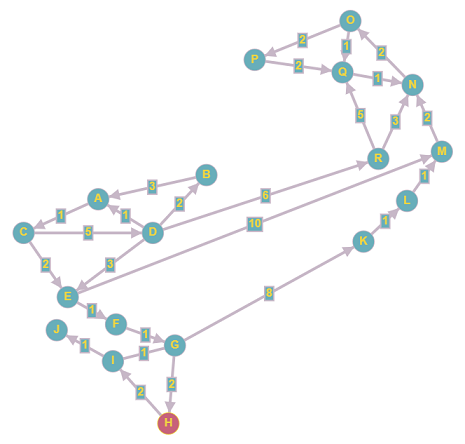
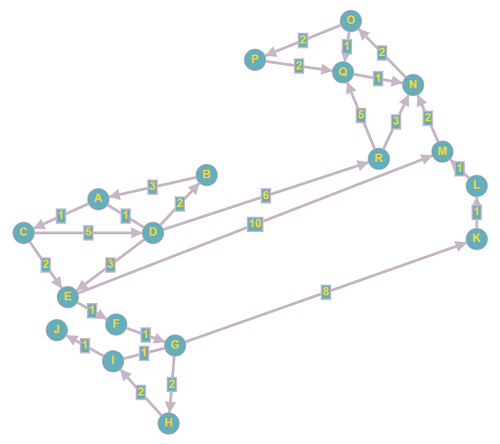
jotain tein, mutta mitä, sitä muista en

Changed region(s): [[0.0301, 0.0, 0.9935, 0.9955]]

diff --git a/src/ui/UI.js b/src/ui/UI.js
@@ -1,14 +1,18 @@
 import React, { useEffect } from 'react'
 import graph from '../routes/model'
-import { InputLabel, Select, FormControl } from '@material-ui/core'
+import { InputLabel, Select, FormControl, Paper, Typography } from '@material-ui/core'
 import data from '../data/data.json'
 
 const styles = {
     display: 'flex',
     flexDirection: 'column',
-    justifyContent: 'flex-start',
-    marginTop: '2%',
-
+    alignItems: 'center',
+    background: '545454',
+    padding: '20px',
+    height: '405px',
+    width: '250px',
+    marginRight: '50px',
+    color: 'black'
 }
 
 const UI = ({ setData }) => {
@@ -18,17 +22,28 @@ const UI = ({ setData }) => {
         stop: '',
     });
 
+    const [distance, setDistance] = React.useState()
+    const [path, setPath] = React.useState()
 
+    let distanceRef = React.useRef()
 
     useEffect(() => {
         if (state.start && state.stop) {
-            
-            const distance = graph.shortestPath(state.start, state.stop)
-            console.log(distance)
-            setData(distance)
-            setState({ start: '', stop: ''})
+            const data = graph.shortestPath(state.start, state.stop)
+            console.log(data, 'piip', data.distance === Infinity)
+            setDistance(data.distance)
+            setPath(data.pathWithColor)
+            setData(data)
+            setState({ start: '', stop: '' })
+            console.log(distanceRef.current)
         }
     }, [state.start, state.stop, setData])
+
+    useEffect(() => {
+        if (!state.start && !state.end)
+            distanceRef.current.blur()
+
+    }, [state.start, state.end])
 
     const handleChange = (event) => {
 
@@ -41,8 +56,8 @@ const UI = ({ setData }) => {
 
 
     return (
-        <div style={styles}>
-            
+        <Paper style={styles} elevation={8}>
+            <h2>Valitse reitti</h2>
             <FormControl >
                 <InputLabel htmlFor="age-native-simple">Lähtöpysäkki</InputLabel>
                 <Select
@@ -62,11 +77,12 @@ const UI = ({ setData }) => {
 
                 </Select>
             </FormControl>
-            <FormControl >
+            <FormControl  >
                 <InputLabel htmlFor="päätepysäkki">Päätepysäkki</InputLabel>
                 <Select
                     native
                     value={state.stop}
+                    inputRef={distanceRef}
                     onChange={handleChange}
                     style={{ width: '200px' }}
                     inputProps={{
@@ -80,7 +96,21 @@ const UI = ({ setData }) => {
                     ))}
                 </Select>
             </FormControl>
-        </div>
+            <div style={{ marginTop: '30px' }}>
+                {distance && distance !== Infinity && (
+                    <div>
+                        <Typography>Reitti: {path[0].vertex} - {path[path.length - 1].vertex}</Typography>
+                        <Typography>Lyhin matka: {distance}</Typography>
+                    </div>
+                )
+                }
+                {
+                    distance === Infinity && (
+                        <Typography style={{ color: 'red'}}>Linjat eivät valitettavasti vie sinua perille</Typography>
+                    )
+                }
+            </div>
+        </Paper>
     )
 }
 

diff --git a/src/canvas/data.js b/src/canvas/data.js
@@ -1,6 +1,9 @@
 
+
+// koordinaattikerroin alkuperäisestä kuvakoosta poikkeaville kuville
 const RELATIVE_SIZE = 0.7
 
+// täysikokoisen kuvan pysäkkien koordinaatit
 const canvasData = {
     'AC':
     {
@@ -24,8 +27,8 @@ const canvasData = {
         end: [156, 281]
     },
     'DE': {
-        start: [206, 309],
-        end: [109, 382]
+        start: [206, 341],
+        end: [109, 413]
     },
     'EF': {
         start: [110, 431],
@@ -36,8 +39,8 @@ const canvasData = {
         end: [234, 488]
     },
     'GH': {
-        start: [246, 507],
-        end: [241, 587]
+        start: [248, 508],
+        end: [242, 588]
     },
     'HI': {
         start: [230, 592],
@@ -80,20 +83,20 @@ const canvasData = {
         end: [573, 118]
     },
     'EM': {
-        start: [110, 418],
+        start: [112, 417],
         end: [616, 222]
     },
     'GK': {
         start: [263, 485],
-        end: [504, 352]
+        end: [665, 347]
     },
     'KL': {
-        start: [530, 333],
-        end: [569, 298]
+        start: [680, 324],
+        end: [679, 280]
     },
     'LM': {
-        start: [590, 273],
-        end: [622, 230]
+        start: [668, 253],
+        end: [642, 227]
     },
     'MN': {
         start: [624, 202],
@@ -102,12 +105,10 @@ const canvasData = {
 }
 
 for (const key in canvasData) {
-    
     canvasData[key].start[0] *= RELATIVE_SIZE
     canvasData[key].start[1] *= RELATIVE_SIZE
     canvasData[key].end[0] *= RELATIVE_SIZE
     canvasData[key].end[1] *= RELATIVE_SIZE
-
 }
 
 export default canvasData

diff --git a/src/canvas/Canvas.js b/src/canvas/Canvas.js
@@ -16,7 +16,7 @@ class Canvas extends React.Component {
         const ctx = canvas.getContext("2d")
         const img = new Image()
         this.imageRef.current = img
-        img.src = './assets/images/kartta070.png'
+        img.src = './assets/images/kartta070musta.png'
 
         img.onload = () => {
             ctx.drawImage(img, 0, 0)
@@ -28,19 +28,14 @@ class Canvas extends React.Component {
         const canvas = this.canvasRef.current
         const ctx = canvas.getContext("2d")
 
-        console.log('fuck')
-
         ctx.drawImage(this.imageRef.current, 0, 0)
         for (let i = 0; i < path.length - 1; i++) {
             setTimeout(() => this.drawLine(ctx, path[i].vertex, path[i + 1].vertex, path[i].color), (i + 1) * 500)
         }
-
     }
 
     componentDidUpdate(prevProps, prevState) {
-        console.log('animoidaan', this.props.path)
         this.animate()
-
     }
 
     drawLine = (ctx, v1, v2, color) => {
@@ -71,9 +66,8 @@ class Canvas extends React.Component {
 
     render() {
         return (
-            <div style={{ overflow: 'hidden' }}>
-                <canvas ref={this.canvasRef} width={664} height={633} />
-
+            <div style={{ overflow: 'hidden', borderRadius: '4px', height: '445px' }}>
+                <canvas ref={this.canvasRef} width={500} height={450} />
             </div>
         )
     }

diff --git a/src/App.js b/src/App.js
@@ -1,24 +1,49 @@
 import React from 'react';
 import Canvas from './canvas/Canvas'
 import UI from './ui/UI'
-
-
+import { Paper } from '@material-ui/core'
 
 const styles = {
-  display: 'flex',
-  flexDirection: 'row',
-  justifyContent: 'space-around'
+  root: {
+    height: '100vh',
+    display: 'flex',
+    flexDirection: 'column',
+    justifyContent: 'center',
+    alignItems: 'center',
+    overflow: 'hidden',
+    background: 'black'
+  },
+
+  header: {
+    color: '#999',
+    fontSize: '2.5em',
+    letterSpacing: '0.1em',
+    fontFamily: 'Bigelow Rules, cursive'
+  },
+
+  content: {
+    display: 'flex',
+    flexDirection: 'row',
+    justifyContent: 'center',
+    padding: '30px',
+    width: '80vw',
+
+    background: 'radial-gradient(circle, rgba(69,69,71,1) 0%, rgba(3,5,13,1) 91%, rgba(0,0,0,1) 100%)'
+
+  }
 }
 
 function App() {
   const [data, setData] = React.useState({})
 
-  
+
   return (
-    <div style={styles}>
-      {console.log(data, 'data')}
-      <UI setData={setData} />
-      <Canvas path={data.pathWithColor} />
+    <div style={styles.root}>
+      <h1 style={styles.header}>Köyhän miehen reittiopas</h1>
+      <Paper elevation={4} style={styles.content}>
+        <UI setData={setData} />
+        <Canvas path={data.pathWithColor} />
+      </Paper>
     </div>
   );
 }

diff --git a/public/index.html b/public/index.html
@@ -14,6 +14,7 @@
       manifest.json provides metadata used when your web app is installed on a
       user's mobile device or desktop. See https://developers.google.com/web/fundamentals/web-app-manifest/
     -->
+    <link href="https://fonts.googleapis.com/css2?family=Bigelow+Rules&family=Roboto:wght@300&display=swap" rel="stylesheet" />
     <link rel="manifest" href="%PUBLIC_URL%/manifest.json" />
     <!--
       Notice the use of %PUBLIC_URL% in the tags above.

diff --git a/src/index.css b/src/index.css
@@ -1,0 +1,10 @@
+#root {
+    margin: 0;
+    padding: 0;
+}
+
+body {
+    margin: 0;
+    font-family: 'Roboto', sans-serif;
+    
+}

diff --git a/src/index.js b/src/index.js
@@ -1,6 +1,6 @@
 import React from 'react';
 import ReactDOM from 'react-dom';
-
+import './index.css';
 import App from './App';
 
 
